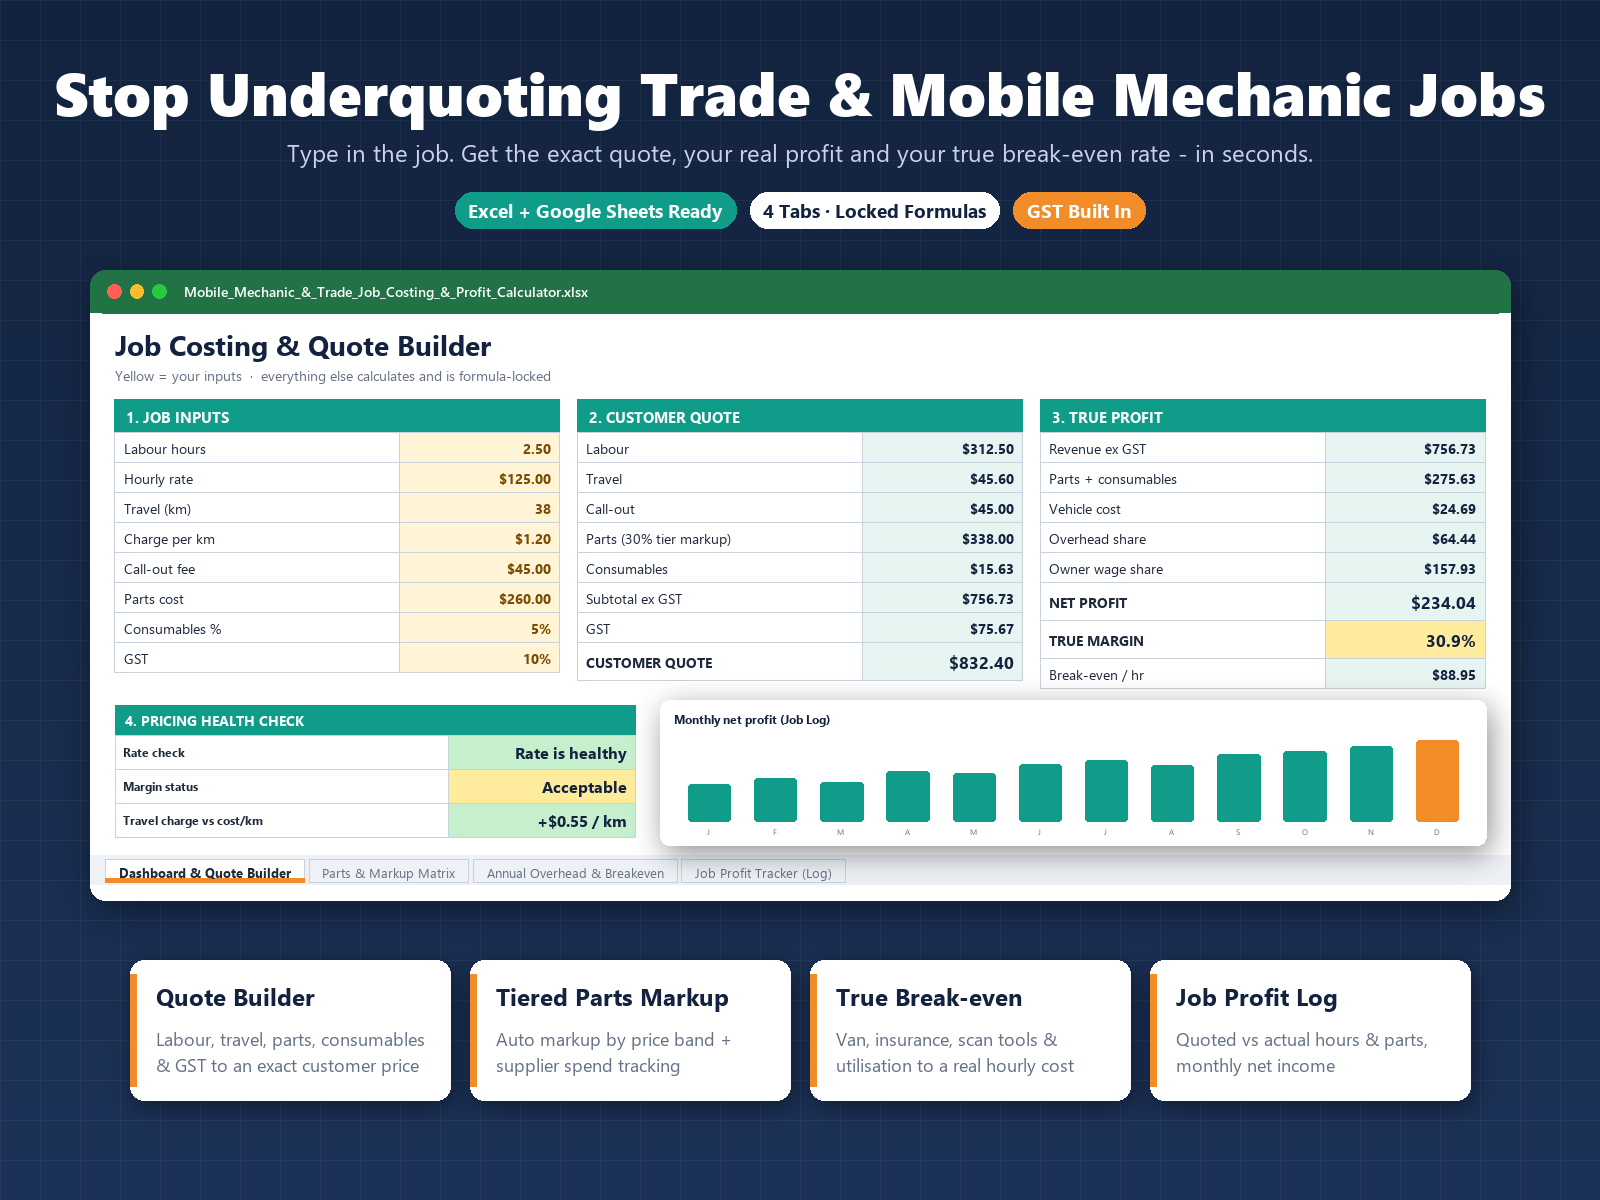
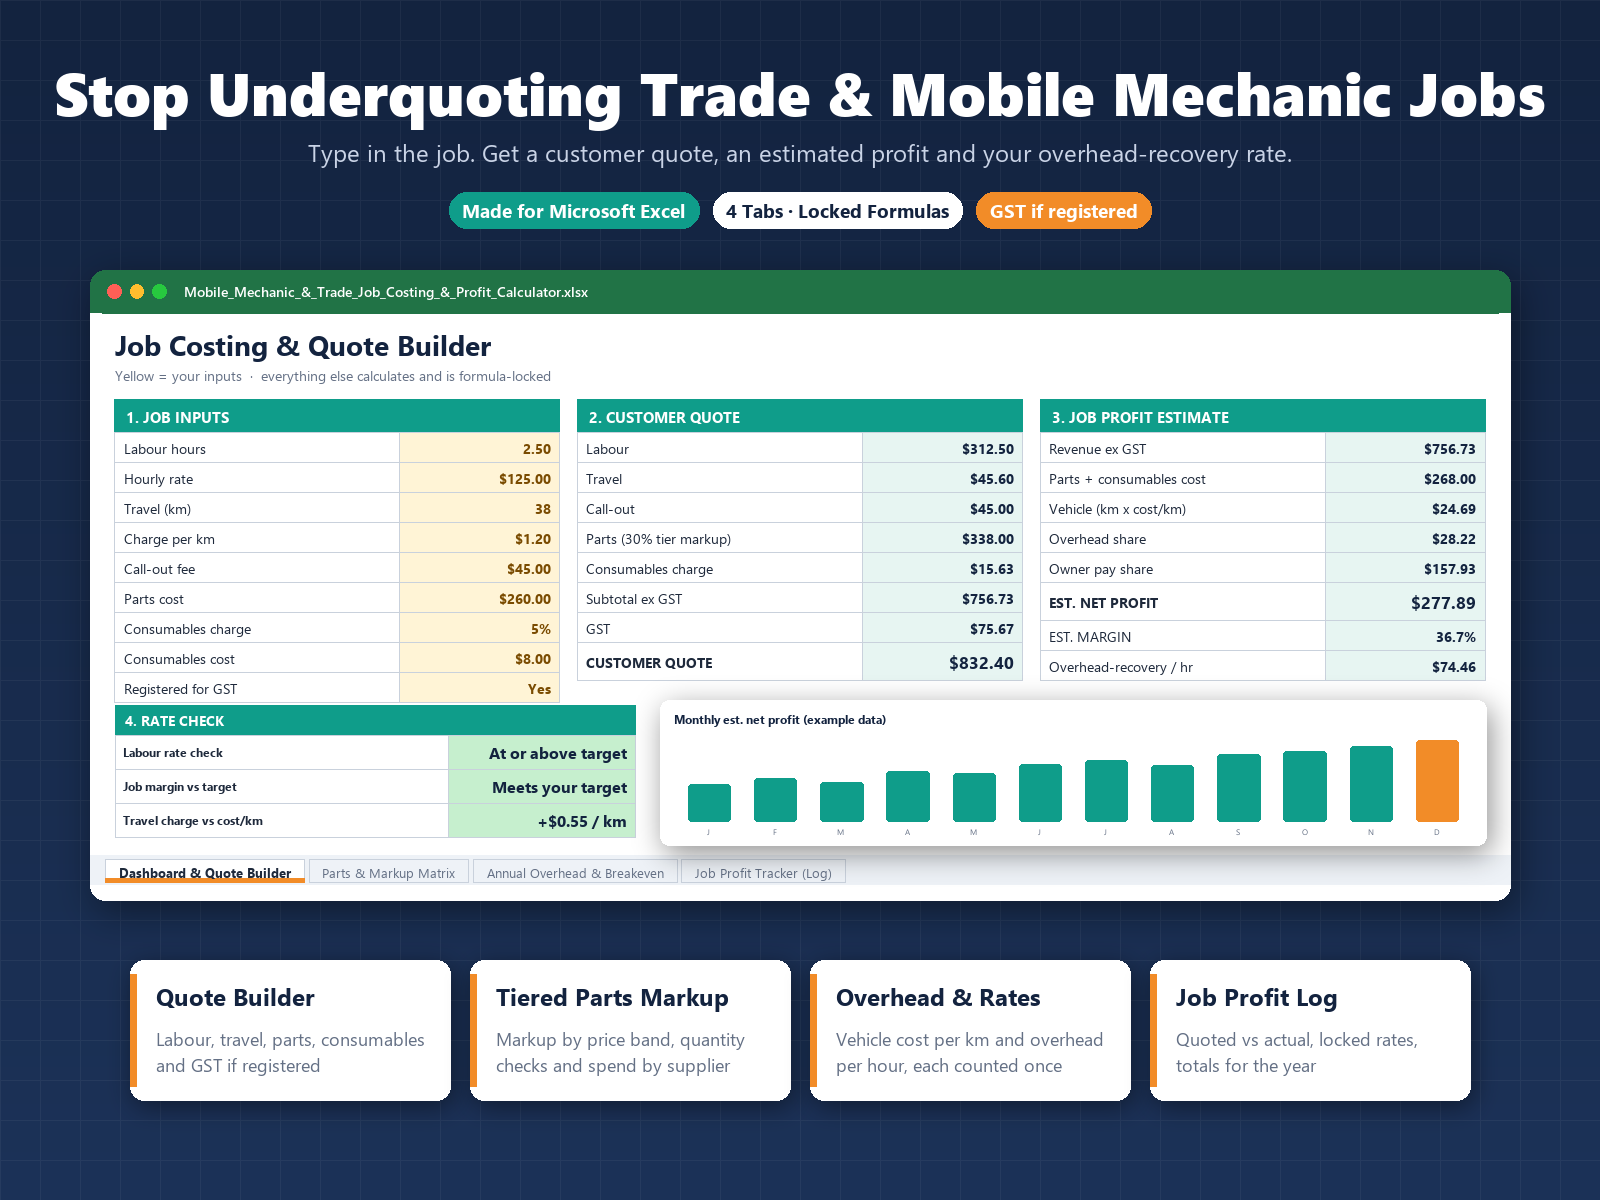
Restore job costing calculator buy box (v6 relaunched, Excel only, audited text) on 8 tradie pages; preview.png -> v6

diff --git a/index.html b/index.html
@@ -73,6 +73,9 @@ document.querySelectorAll('input').forEach(i=>i.addEventListener('input',calc));
 <tr><td>Billable hours (46 x 45 x 65%)</td><td>1,345</td></tr><tr><td><b>Break-even rate</b></td><td><b>$89/hr</b></td></tr>
 <tr><td>Minimum rate at a 25% margin</td><td>$119/hr</td></tr></table>
 <p>If you're charging $95/hr, you're only $6 above break-even. One slow week or an underquoted job wipes that out. Read the <a href="mobile-mechanic-hourly-rate.html">full hourly rate guide</a>, or how to set <a href="parts-markup-guide.html">parts markup</a> and <a href="call-out-fee-and-travel-charges.html">travel and call-out fees</a>. Then <a href="job-quote-calculator.html">price one job</a>. Sole traders can <a href="sole-trader-gst-bas-calculator.html">estimate GST for a BAS period</a>.</p>
-</main>
+<div class="cta"><img src="preview.png" alt="Job costing and quote calculator spreadsheet for Microsoft Excel" loading="lazy">
+<div><h2 style="color:#fff;margin-top:0">Want this for every job, not just one sum?</h2>
+<p>The <b>Job Costing Calculator</b> (made for Microsoft Excel) works out what each hour, kilometre and part really costs you, then shows whether a job covers all its costs before you send the quote: overhead and break-even, a quote builder with travel, call-out, parts markup and GST if registered, a tiered parts markup matrix, and a quoted vs actual job tracker. Profit figures are estimates for pricing decisions, not financial advice.</p>
+<a class="btn" href="https://wondevi.gumroad.com/l/job-costing-quote-profit-calculator/LAUNCH30" rel="nofollow">Get it - A$14.95, launch code 30% off</a></div></div></main>
 <footer><div class="wrap">&copy; Wondevi Productions. Free tools and guides for mobile mechanics, tradies and sole traders. Figures are examples. Check your own costs, and your tax obligations with your accountant.</div></footer>
 </body></html>

diff --git a/mobile-mechanic-hourly-rate.html b/mobile-mechanic-hourly-rate.html
@@ -46,6 +46,9 @@ footer{color:var(--muted);font-size:14px;padding:30px 20px;border-top:1px solid 
 <li><b>Ignoring travel time.</b> An hour driving is an hour you can't bill. Recover it with a call-out fee or travel charge (see <a href="call-out-fee-and-travel-charges.html">travel and call-out fees</a>).</li>
 <li><b>Thin parts markup.</b> Small parts often cost more to source than you make on them (see the <a href="parts-markup-guide.html">parts markup guide</a>).</li>
 <li><b>Never checking quoted vs actual hours.</b> If brake jobs keep taking 3 hours and you quote 2, your effective rate is a third lower than you think.</li></ul>
-</main>
+<div class="cta"><img src="preview.png" alt="Job costing and quote calculator spreadsheet for Microsoft Excel" loading="lazy">
+<div><h2 style="color:#fff;margin-top:0">Want this for every job, not just one sum?</h2>
+<p>The <b>Job Costing Calculator</b> (made for Microsoft Excel) works out what each hour, kilometre and part really costs you, then shows whether a job covers all its costs before you send the quote: overhead and break-even, a quote builder with travel, call-out, parts markup and GST if registered, a tiered parts markup matrix, and a quoted vs actual job tracker. Profit figures are estimates for pricing decisions, not financial advice.</p>
+<a class="btn" href="https://wondevi.gumroad.com/l/job-costing-quote-profit-calculator/LAUNCH30" rel="nofollow">Get it - A$14.95, launch code 30% off</a></div></div></main>
 <footer><div class="wrap">&copy; Wondevi Productions. Free tools and guides for mobile mechanics, tradies and sole traders. Figures are examples. Check your own costs, and your tax obligations with your accountant.</div></footer>
 </body></html>

diff --git a/parts-markup-guide.html b/parts-markup-guide.html
@@ -40,6 +40,9 @@ footer{color:var(--muted);font-size:14px;padding:30px 20px;border-top:1px solid 
 <h2>Track what you pay each supplier</h2><p>Log every purchase for a month: supplier, part, cost and what you sold it for. Many operators find one supplier's trade price is consistently 10-15% higher than another's for the same parts. That's margin you can recover without charging customers more.</p>
 <h2>Markup vs margin</h2><p>Markup is profit / cost. Margin is profit / sell price. A 50% markup is only a 33% margin. Quote with markup, but judge the job on margin.</p>
 <p><a class="btn" href="./">Check your hourly rate</a></p>
-</main>
+<div class="cta"><img src="preview.png" alt="Job costing and quote calculator spreadsheet for Microsoft Excel" loading="lazy">
+<div><h2 style="color:#fff;margin-top:0">Want this for every job, not just one sum?</h2>
+<p>The <b>Job Costing Calculator</b> (made for Microsoft Excel) works out what each hour, kilometre and part really costs you, then shows whether a job covers all its costs before you send the quote: overhead and break-even, a quote builder with travel, call-out, parts markup and GST if registered, a tiered parts markup matrix, and a quoted vs actual job tracker. Profit figures are estimates for pricing decisions, not financial advice.</p>
+<a class="btn" href="https://wondevi.gumroad.com/l/job-costing-quote-profit-calculator/LAUNCH30" rel="nofollow">Get it - A$14.95, launch code 30% off</a></div></div></main>
 <footer><div class="wrap">&copy; Wondevi Productions. Free tools and guides for mobile mechanics, tradies and sole traders. Figures are examples. Check your own costs, and your tax obligations with your accountant.</div></footer>
 </body></html>

diff --git a/call-out-fee-and-travel-charges.html b/call-out-fee-and-travel-charges.html
@@ -39,6 +39,9 @@ footer{color:var(--muted);font-size:14px;padding:30px 20px;border-top:1px solid 
 <li><b>Minimum job charge</b>, e.g. 1 hour labour, if you'd rather not itemise travel.</li></ul>
 <h2>4. Group jobs by area</h2><p>Offering a lower call-out fee for bookings in the suburb you're already in that day fills your schedule and cuts unbilled driving.</p>
 <p><a class="btn" href="./">Find your van cost per km</a></p>
-</main>
+<div class="cta"><img src="preview.png" alt="Job costing and quote calculator spreadsheet for Microsoft Excel" loading="lazy">
+<div><h2 style="color:#fff;margin-top:0">Want this for every job, not just one sum?</h2>
+<p>The <b>Job Costing Calculator</b> (made for Microsoft Excel) works out what each hour, kilometre and part really costs you, then shows whether a job covers all its costs before you send the quote: overhead and break-even, a quote builder with travel, call-out, parts markup and GST if registered, a tiered parts markup matrix, and a quoted vs actual job tracker. Profit figures are estimates for pricing decisions, not financial advice.</p>
+<a class="btn" href="https://wondevi.gumroad.com/l/job-costing-quote-profit-calculator/LAUNCH30" rel="nofollow">Get it - A$14.95, launch code 30% off</a></div></div></main>
 <footer><div class="wrap">&copy; Wondevi Productions. Free tools and guides for mobile mechanics, tradies and sole traders. Figures are examples. Check your own costs, and your tax obligations with your accountant.</div></footer>
 </body></html>

diff --git a/tax-invoice-template-australia.html b/tax-invoice-template-australia.html
@@ -78,7 +78,10 @@ footer{color:var(--muted);font-size:14px;padding:30px 20px;border-top:1px solid 
 </ul>
 
 <p><i>General information only, not tax advice. Check GST and invoicing obligations with the ATO or your accountant.</i></p>
-</main>
+<div class="cta"><img src="preview.png" alt="Job costing and quote calculator spreadsheet for Microsoft Excel" loading="lazy">
+<div><h2 style="color:#fff;margin-top:0">Want this for every job, not just one sum?</h2>
+<p>The <b>Job Costing Calculator</b> (made for Microsoft Excel) works out what each hour, kilometre and part really costs you, then shows whether a job covers all its costs before you send the quote: overhead and break-even, a quote builder with travel, call-out, parts markup and GST if registered, a tiered parts markup matrix, and a quoted vs actual job tracker. Profit figures are estimates for pricing decisions, not financial advice.</p>
+<a class="btn" href="https://wondevi.gumroad.com/l/job-costing-quote-profit-calculator/LAUNCH30" rel="nofollow">Get it - A$14.95, launch code 30% off</a></div></div></main>
 <footer><div class="wrap">&copy; Wondevi Productions. Free tools and guides for Australian tradies, mechanics and sole traders. Check your own GST and invoicing obligations with the ATO or your accountant.</div></footer>
 <script>
 const $=id=>document.getElementById(id);{const d=new Date();$('dt').value=d.getFullYear()+'-'+String(d.getMonth()+1).padStart(2,'0')+'-'+String(d.getDate()).padStart(2,'0')}

diff --git a/job-quote-calculator.html b/job-quote-calculator.html
@@ -77,6 +77,9 @@ quote();
 </ul>
 <p>Worked example with the numbers already filled in: 2 hours at $110 = $220 labour, $0 call-out + 20 km at $1.50 = $30 travel, parts $80 plus 50% = $120, consumables $10. Subtotal $380. GST $38. Customer total <b>$418</b>.</p>
 <p><i>A quoting aid only. It does not set your prices, and it is not tax advice. Confirm GST with your accountant.</i></p>
-</main>
+<div class="cta"><img src="preview.png" alt="Job costing and quote calculator spreadsheet for Microsoft Excel" loading="lazy">
+<div><h2 style="color:#fff;margin-top:0">Want this for every job, not just one sum?</h2>
+<p>The <b>Job Costing Calculator</b> (made for Microsoft Excel) works out what each hour, kilometre and part really costs you, then shows whether a job covers all its costs before you send the quote: overhead and break-even, a quote builder with travel, call-out, parts markup and GST if registered, a tiered parts markup matrix, and a quoted vs actual job tracker. Profit figures are estimates for pricing decisions, not financial advice.</p>
+<a class="btn" href="https://wondevi.gumroad.com/l/job-costing-quote-profit-calculator/LAUNCH30" rel="nofollow">Get it - A$14.95, launch code 30% off</a></div></div></main>
 <footer><div class="wrap">&copy; Wondevi Productions. Free tools and guides for mobile mechanics, tradies and sole traders. Figures are examples. Check your own costs, and your tax obligations with your accountant.</div></footer>
 </body></html>

diff --git a/electrician-hourly-rate-australia.html b/electrician-hourly-rate-australia.html
@@ -71,6 +71,9 @@ footer{color:var(--muted);font-size:14px;padding:30px 20px;border-top:1px solid 
 </ul>
 
 <p><i>General information only, not financial or tax advice. Check licence, insurance and compliance requirements with your state regulator, and tax, super and GST with your accountant.</i></p>
-</main>
+<div class="cta"><img src="preview.png" alt="Job costing and quote calculator spreadsheet for Microsoft Excel" loading="lazy">
+<div><h2 style="color:#fff;margin-top:0">Want this for every job, not just one sum?</h2>
+<p>The <b>Job Costing Calculator</b> (made for Microsoft Excel) works out what each hour, kilometre and part really costs you, then shows whether a job covers all its costs before you send the quote: overhead and break-even, a quote builder with travel, call-out, parts markup and GST if registered, a tiered parts markup matrix, and a quoted vs actual job tracker. Profit figures are estimates for pricing decisions, not financial advice.</p>
+<a class="btn" href="https://wondevi.gumroad.com/l/job-costing-quote-profit-calculator/LAUNCH30" rel="nofollow">Get it - A$14.95, launch code 30% off</a></div></div></main>
 <footer><div class="wrap">&copy; Wondevi Productions. Free tools and guides for Australian electricians, tradies and sole traders. Figures are examples. Check your own costs, and your tax, super and licensing obligations with your accountant and state regulator.</div></footer>
 </body></html>

diff --git a/tradie-hourly-rate-australia.html b/tradie-hourly-rate-australia.html
@@ -48,6 +48,9 @@ footer{color:var(--muted);font-size:14px;padding:30px 20px;border-top:1px solid 
 <p><a class="btn" href="./">Work out your rate with the free calculator</a></p>
 
 <p><i>General information only. Talk to your accountant about tax, super and GST for your situation.</i></p>
-</main>
+<div class="cta"><img src="preview.png" alt="Job costing and quote calculator spreadsheet for Microsoft Excel" loading="lazy">
+<div><h2 style="color:#fff;margin-top:0">Want this for every job, not just one sum?</h2>
+<p>The <b>Job Costing Calculator</b> (made for Microsoft Excel) works out what each hour, kilometre and part really costs you, then shows whether a job covers all its costs before you send the quote: overhead and break-even, a quote builder with travel, call-out, parts markup and GST if registered, a tiered parts markup matrix, and a quoted vs actual job tracker. Profit figures are estimates for pricing decisions, not financial advice.</p>
+<a class="btn" href="https://wondevi.gumroad.com/l/job-costing-quote-profit-calculator/LAUNCH30" rel="nofollow">Get it - A$14.95, launch code 30% off</a></div></div></main>
 <footer><div class="wrap">&copy; Wondevi Productions. Free tools and guides for mobile mechanics, tradies and sole traders. Figures are examples. Check your own costs, and your tax obligations with your accountant.</div></footer>
 </body></html>
